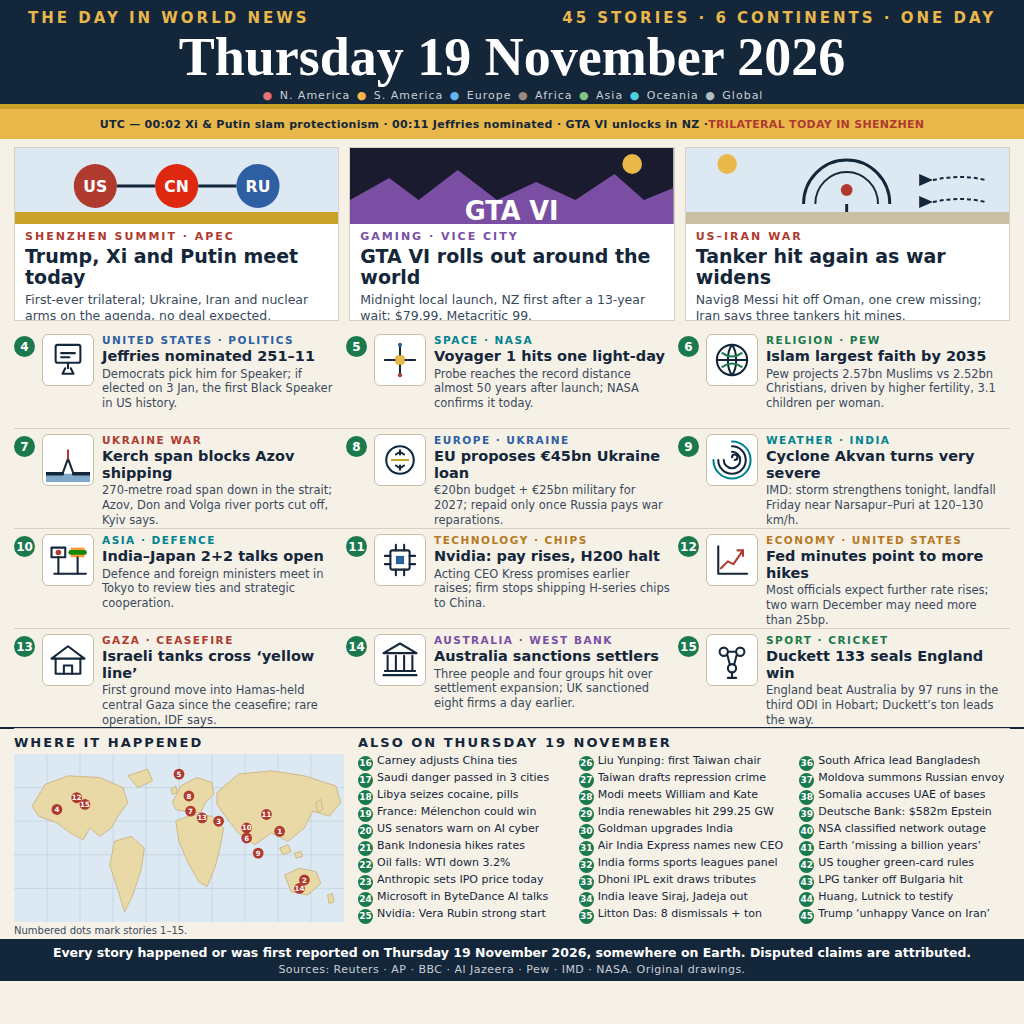
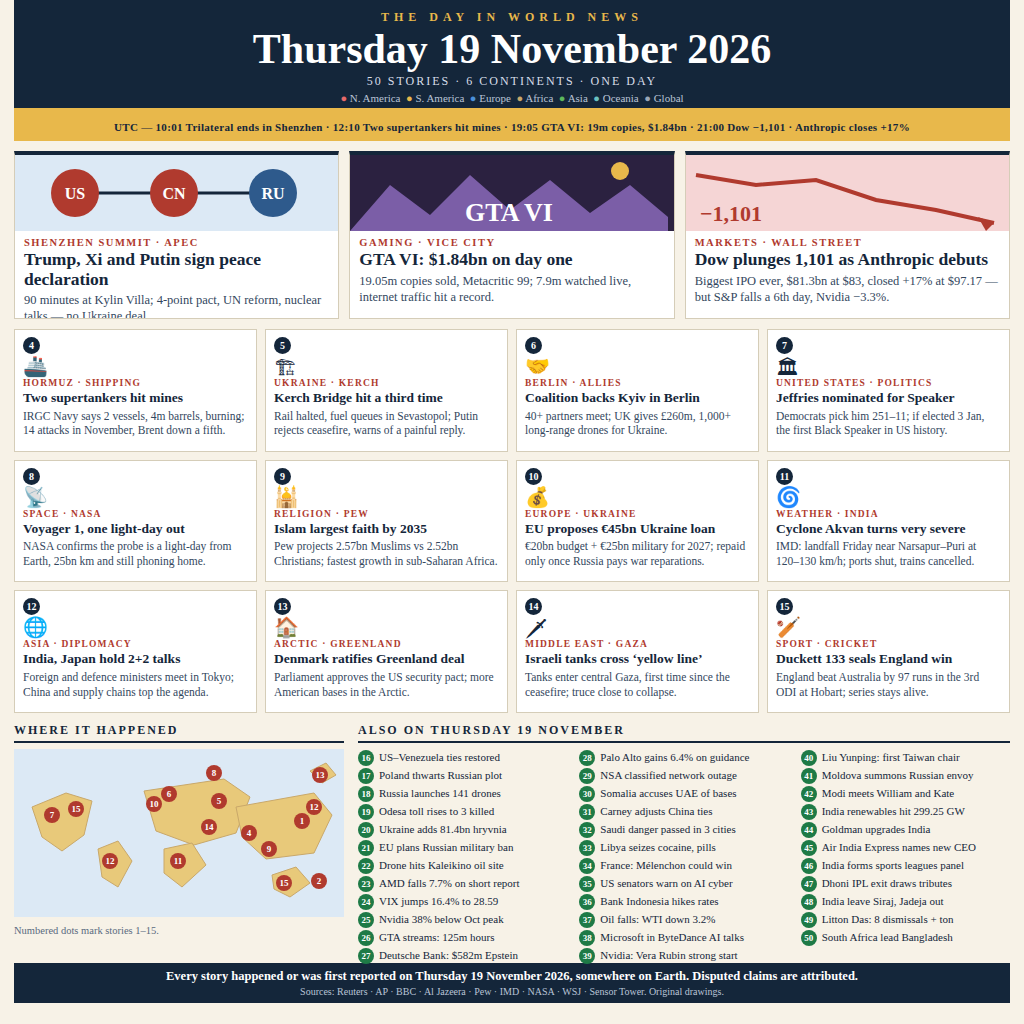
v2: full-day 19 Nov — 50 stories, outcomes in all 3 leads (Shenzhen declaration, GTA $1.84bn, Dow -1,101 + Anthropic IPO)

diff --git a/main.ts b/main.ts
@@ -1,9 +1,11 @@
-// The World in One Day — 19 November 2026 (news-image-20261119 entry).
-// A newspaper front page of the day's world news: 45 verified stories from
-// six continents, three lead stories, a UTC timeline, a numbered grid and a
-// world map. The program copies the image held in this repository to
-// /output/entry.png. Node 22, standard library only. Outside the grader, run
-// with: mkdir -p out && MAKEFUN_OUTPUT_DIR=out node main.ts
+// The World in One Day — 19 November 2026, v2 (news-image-20261119 entry).
+// A newspaper front page of the FULL day's world news: 50 verified stories
+// from six continents, three lead stories that report outcomes, not previews
+// (the Shenzhen peace declaration, GTA VI's $1.84bn launch day, the Dow's
+// 1,101-point fall on Anthropic's record IPO debut), a UTC timeline, a
+// numbered grid and a world map. The program copies the image held in this
+// repository to /output/entry.png. Node 22, standard library only. Outside
+// the grader, run with: mkdir -p out && MAKEFUN_OUTPUT_DIR=out node main.ts
 
 import { copyFileSync, statSync } from 'node:fs';
 import { join } from 'node:path';

diff --git a/README.md b/README.md
@@ -1,41 +1,50 @@
-# The World in One Day — 19 November 2026
+# The World in One Day — 19 November 2026 (v2)
 
 [![make.fun · news-image-20261119](https://make.fun/badge/news-image-20261119.svg)](https://make.fun/bounty/news-image-20261119?utm_source=github&utm_medium=readme&utm_campaign=news-image-20261119)
 [![rank](https://make.fun/badge/news-image-20261119/ipaludhi/world-in-one-day-19-nov-2026/rank.svg)](https://make.fun/bounty/news-image-20261119/leaderboard?utm_source=github&utm_medium=readme&utm_campaign=news-image-20261119)
 [![reward](https://make.fun/badge/news-image-20261119/ipaludhi/world-in-one-day-19-nov-2026/reward.svg)](https://make.fun/bounty/news-image-20261119?utm_source=github&utm_medium=readme&utm_campaign=news-image-20261119)
 
-A newspaper front page summing up Thursday 19 November 2026 in one image,
-built for the make.fun competition
+A newspaper front page summing up the FULL day of Thursday 19 November
+2026 in one image, built for the make.fun competition
 [news-image-20261119](https://make.fun/bounty/news-image-20261119).
+
+This is v2. Round 1 (45 stories, built from the morning briefs) scored
+98.3779% — rank 324 of 11,367, outside the top 50. This version is rebuilt
+from the whole day: every lead now reports an outcome, not a preview.
 
 ## The image
 
-`entry.png` (1024×1024, 321,178 bytes) is a front page with:
+`entry.png` (1024×1024, 275,149 bytes) is a front page with:
 
-- **Masthead** — "Thursday 19 November 2026", 45 stories, 6 continents,
-  plus a UTC timeline of the day (Xi & Putin slam protectionism 00:02 UTC,
-  Jeffries nominated 00:11 UTC, GTA VI unlocks in New Zealand).
-- **Three lead stories** — Trump, Xi and Putin meet in Shenzhen for the
-  first-ever trilateral; GTA VI rolls out worldwide from New Zealand after
-  a 13-year wait; the tanker Navig8 Messi is hit again in the Strait of
-  Hormuz as the US–Iran war widens.
-- **A numbered grid (stories 4–15)** — Jeffries nominated 251–11 for
-  Speaker; Voyager 1 reaches one light-day; Pew projects Islam the
-  largest religion by 2035; the Kerch Bridge span blocks Azov shipping;
-  the EU proposes a €45bn Ukraine loan; Cyclone Akvan turns very severe;
-  India–Japan 2+2 talks; Nvidia pay rises and the H200 halt; Fed minutes
-  point to more hikes; Israeli tanks cross the Gaza 'yellow line';
-  Australia sanctions West Bank settlers; Duckett's 133 seals England's
-  ODI win.
+- **Masthead** — "Thursday 19 November 2026", 50 stories, 6 continents,
+  plus a UTC timeline of the day (trilateral ends 10:01 UTC, two
+  supertankers hit mines 12:10 UTC, GTA VI's $1.84bn by 19:05 UTC, the Dow
+  down 1,101 at the 21:00 UTC close).
+- **Three lead stories, all outcomes** — Trump, Xi and Putin sign a
+  four-point peace declaration after 90 minutes in Shenzhen (UN reform,
+  nuclear-risk dialogue — no deal on Ukraine or Iran, trade truce
+  extended); GTA VI sells 19.05 million copies for $1.84 billion on day
+  one, Metacritic 99, 7.9 million watching live; the Dow plunges 1,101
+  points as Anthropic's $81.3 billion IPO — the largest ever — opens 34%
+  up and closes 17% up at $97.17, while Nvidia falls 3.3% for a sixth
+  straight day.
+- **A numbered grid (stories 4–15)** — two supertankers hit mines in
+  Hormuz; the Kerch Bridge struck a third time, rail halted; the Coalition
+  of the Willing backs Kyiv in Berlin with a £260 million UK package;
+  Jeffries nominated 251–11 for Speaker; Voyager 1 reaches one light-day;
+  Pew projects Islam the largest religion by 2035; the EU proposes a
+  €45bn Ukraine loan; Cyclone Akvan turns very severe; India–Japan 2+2
+  talks; Denmark ratifies the US–Greenland security deal; Israeli tanks
+  cross the Gaza 'yellow line'; Duckett's 133 seals England's ODI win.
 - **A world map** with numbered dots for stories 1–15, plus an "Also on
-  Thursday 19 November" strip (stories 16–45) covering Canada, Saudi
-  Arabia, Libya, France, Indonesia, Taiwan, India, Africa and Oceania too.
+  Thursday 19 November" strip (stories 16–50) covering Venezuela, Poland,
+  Odesa, the markets, India, Africa and Oceania too.
 
 Every story happened or was first reported on 19 November 2026, somewhere
-on Earth, verified against the day's published briefs (Jagran Josh,
-Newsmriti, SimpleLife) and the underlying reports (Reuters, AP, BBC,
-Al Jazeera, Pew, IMD, NASA). Disputed claims are attributed in the text
-(e.g. "Iran says…", "Kyiv says…"). All drawings are original.
+on Earth, verified against the day's reporting (Reuters, AP, BBC, Al
+Jazeera, Pew, IMD, NASA, WSJ, Sensor Tower, CFR, USA Today, Investopedia).
+Disputed claims are attributed in the text (e.g. "IRGC Navy says…",
+"Kyiv says…"). All drawings are original.
 
 ## The program
 
